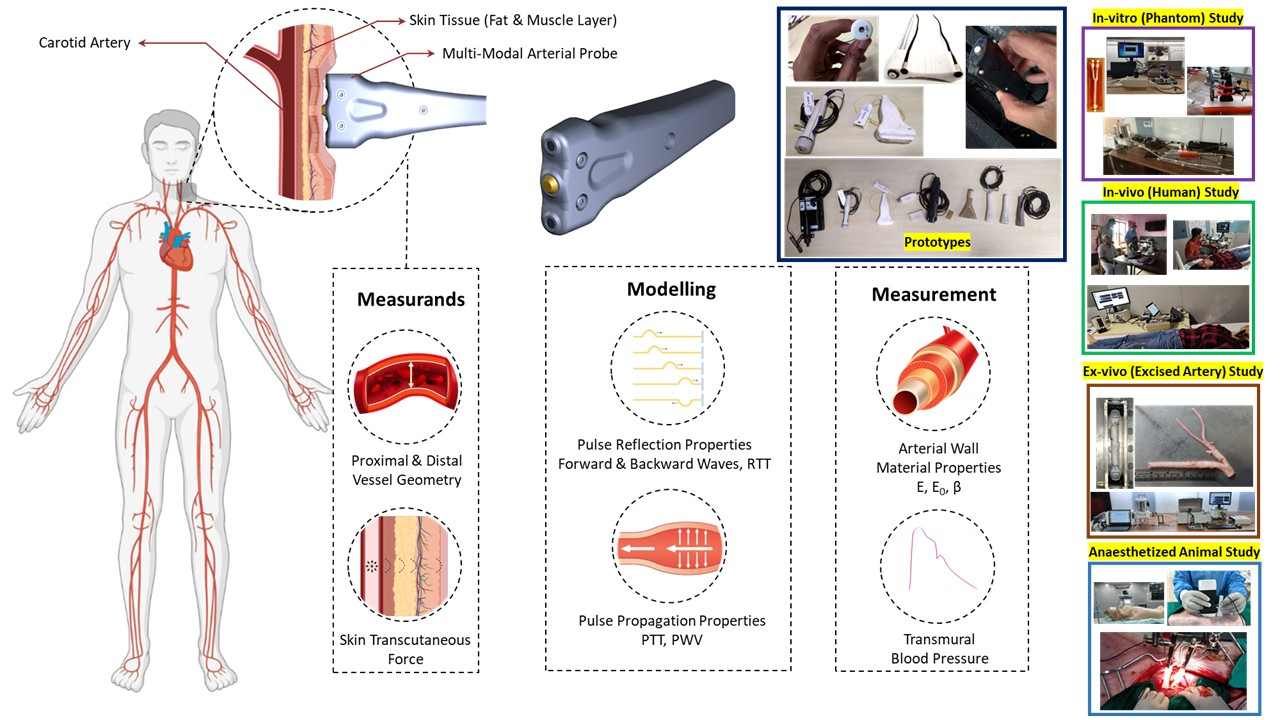
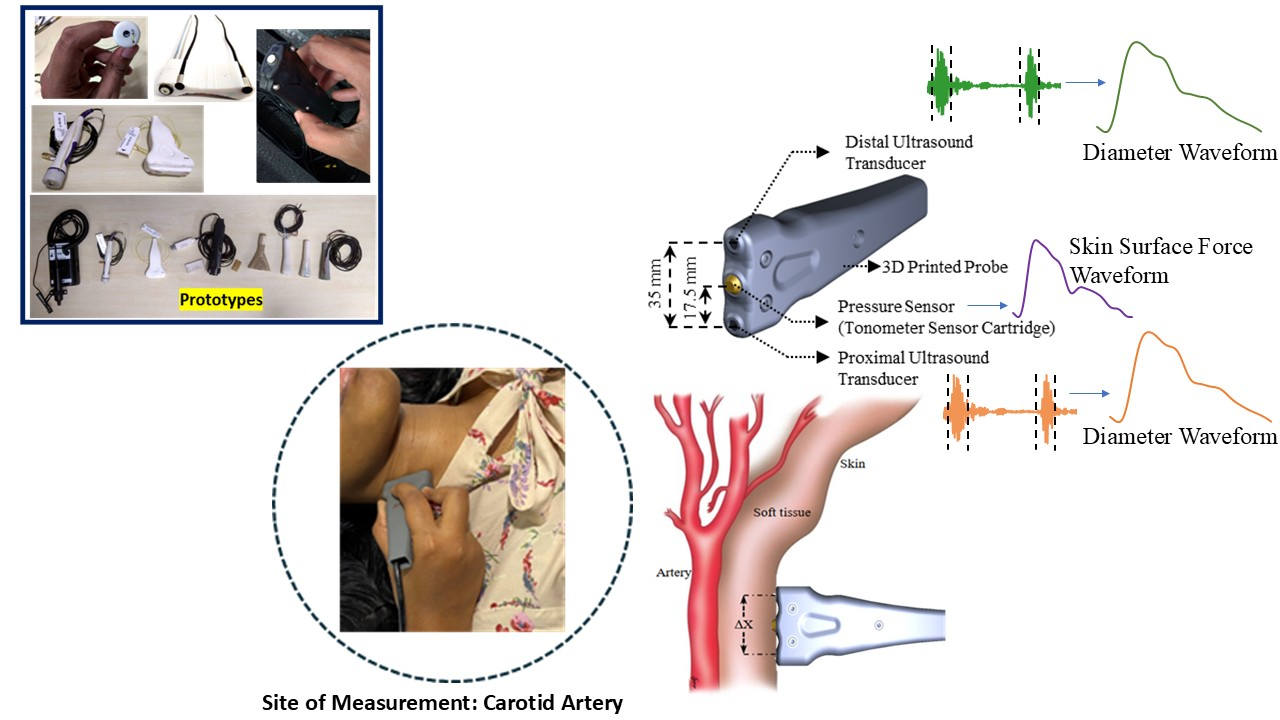
projects assed

diff --git a/_pages/talks.md b/_pages/talks.md
@@ -103,6 +103,8 @@ nav_order: 7
 
 2. Introduction to Robotics Workshop, Robotics Intrest Group, NIT Calicu, Kozhikode, India: <b>How to make a Line Following Robot</b>, 13th October 2016
 
+3. Introduction to Robotics Workshop, Robotics Intrest Group, NIT Calicu, Kozhikode, India: <b>Robot Locomotion & Motor Drivers</b>, 13th October 2016
+
 ---
 
 <b>2015</b>
@@ -111,7 +113,13 @@ nav_order: 7
 
 2. Introduction to Robotics Workshop, Robotics Intrest Group, NIT Calicut, Kozhikode, India: <b>How to make a Line Following Robot</b>, 11th Sepetmber 2015
 
-3. Robotics Intrest Group - Internal Seminar Series, NIT Calicut, Kozhikode, India: <b>PID Control for Robotics</b>, 8th January 2015
+3. Introduction to Robotics Workshop, Robotics Intrest Group, NIT Calicu, Kozhikode, India: <b>Robot Locomotion & Motor Drivers</b>, 11th Sepetmber 2015
+
+4. Robotics Intrest Group - Internal Seminar Series, NIT Calicut, Kozhikode, India: <b>PID Control for Robotics</b>, 8th January 2015
+
+5. Robotics Intrest Group - Internal Seminar Series, NIT Calicut, Kozhikode, India: <b>Microcontrollers</b>, 10th June 2015
+
+6. High Schools and Collages, Kerala, India: <b>Introducing Hobby Robotics and on starting a Robotics Club</b>, 2015
 
 ---
 

diff --git a/_projects/3_project.md b/_projects/3_project.md
@@ -1,7 +1,7 @@
 ---
 layout: page
 title: Multi-Modal Arterial Probe 
-description: a project that redirects to another website
+description: Dual-element ultrasound trasducer probes with an integrated pressure sensor
 img: assets/img/project_3.jpg
 importance: 3
 category: work
@@ -17,7 +17,7 @@ To give your project a background in the portfolio page, just add the img tag to
     layout: page
     title: project
     description: a project with a background image
-    img: /assets/img/12.jpg
+    img: assets/img/project_3.jpg
     ---
 
 <div class="row">

diff --git a/_projects/1_project.md b/_projects/1_project.md
@@ -1,8 +1,8 @@
 ---
 layout: page
 title: Weighing Bed Scales
-description: with background image
-img: assets/img/12.jpg
+description: How to measure the weight of a bed-ridden patient?
+img: assets/img/project_1.jpg
 importance: 1
 category: work
 related_publications: true
@@ -18,7 +18,7 @@ To give your project a background in the portfolio page, just add the img tag to
     layout: page
     title: project
     description: a project with a background image
-    img: /assets/img/12.jpg
+    img: assets/img/project_1.jpg
     ---
 
 <div class="row">

diff --git a/_projects/12_project.md b/_projects/12_project.md
@@ -1,10 +1,10 @@
 ---
 layout: page
-title: Wireless Water Level Indicator
-description: Automated and wireless solution for overhead water tanks based on RF sensors. 
+title: IoT Power Adaptor
+description: A device for Power Monitoring and Control of any electrical appliance, Wi-Fi and Internet Enabled with user friendly Web Server for GUI.
 img: assets/img/6.jpg
-importance: 10
-category: hobby
+importance: 12
+category: work
 ---
 
 Every project has a beautiful feature showcase page.

diff --git a/_projects/13_project .md b/_projects/13_project .md
@@ -1,10 +1,10 @@
 ---
 layout: page
-title: Wireless Water Level Indicator
-description: Automated and wireless solution for overhead water tanks based on RF sensors. 
+title: IoT Power Adaptor
+description: A device for Power Monitoring and Control of any electrical appliance, Wi-Fi and Internet Enabled with user friendly Web Server for GUI.
 img: assets/img/6.jpg
-importance: 10
-category: hobby
+importance: 12
+category: work
 ---
 
 Every project has a beautiful feature showcase page.

diff --git a/_projects/14_project.md b/_projects/14_project.md
@@ -1,9 +1,9 @@
 ---
 layout: page
-title: Wireless Water Level Indicator
-description: Automated and wireless solution for overhead water tanks based on RF sensors. 
+title: ABU RoboCON Robots
+description: Design, Fabrication and Control of ABU ROBOCON India (National Level) Manual and Autonomous Robots for the year 2013, 2014 and 2015, as per the problem statement of the contest for each year.
 img: assets/img/6.jpg
-importance: 10
+importance: 14
 category: hobby
 ---
 

diff --git a/_projects/11_project.md b/_projects/11_project.md
@@ -1,10 +1,10 @@
 ---
 layout: page
-title: Wireless Water Level Indicator
-description: Automated and wireless solution for overhead water tanks based on RF sensors. 
+title: Mock Circulation Rigs
+description: In-vitro & Ex-vivo laboratory test rig platform for mock circulation loop of heart and systemic arteries 
 img: assets/img/6.jpg
-importance: 10
-category: hobby
+importance: 11
+category: work
 ---
 
 Every project has a beautiful feature showcase page.

diff --git a/_projects/8_project.md b/_projects/8_project.md
@@ -1,7 +1,7 @@
 ---
 layout: page
-title: Automated Cover-slipper for Histopathology Slides
-description: an other project with a background image and giscus comments
+title: Automated Cover-slipper for Tissue Slides
+description: Instrumentation solutions for the Human Brain Initiative in India
 img: assets/img/9.jpg
 importance: 9
 category: work

diff --git a/_projects/16_project.md b/_projects/16_project.md
@@ -1,9 +1,9 @@
 ---
 layout: page
-title: Wireless Water Level Indicator
-description: Automated and wireless solution for overhead water tanks based on RF sensors. 
+title: Home Automation 
+description: Home Automation System based on IR Remotes and DTMF Technology
 img: assets/img/6.jpg
-importance: 10
+importance: 16
 category: hobby
 ---
 

diff --git a/_projects/15_project.md b/_projects/15_project.md
@@ -1,9 +1,9 @@
 ---
 layout: page
-title: Wireless Water Level Indicator
-description: Automated and wireless solution for overhead water tanks based on RF sensors. 
+title: Hand Gesture Controlled Robot 
+description: Based on Inertial Measurement Unit and Arduino
 img: assets/img/6.jpg
-importance: 10
+importance: 15
 category: hobby
 ---
 

diff --git a/_projects/2_project.md b/_projects/2_project.md
@@ -1,7 +1,7 @@
 ---
 layout: page
-title: Algorithms for Wave Separation
-description: a project with a background image and giscus comments
+title: Pulse Wave Separation
+description: Flow-independent algorithms for arterial pulse wave separation analysis
 img: assets/img/3.jpg
 importance: 2
 category: work

diff --git a/_projects/5_project.md b/_projects/5_project.md
@@ -1,7 +1,7 @@
 ---
 layout: page
-title: Calibartion-Free BP
-description: a project with a background image
+title: Calibartion-Free Blood Pressure
+description: a novel non-invasive, calibration free models to measure BP and arterial stiffness
 img: assets/img/1.jpg
 importance: 5
 category: work
